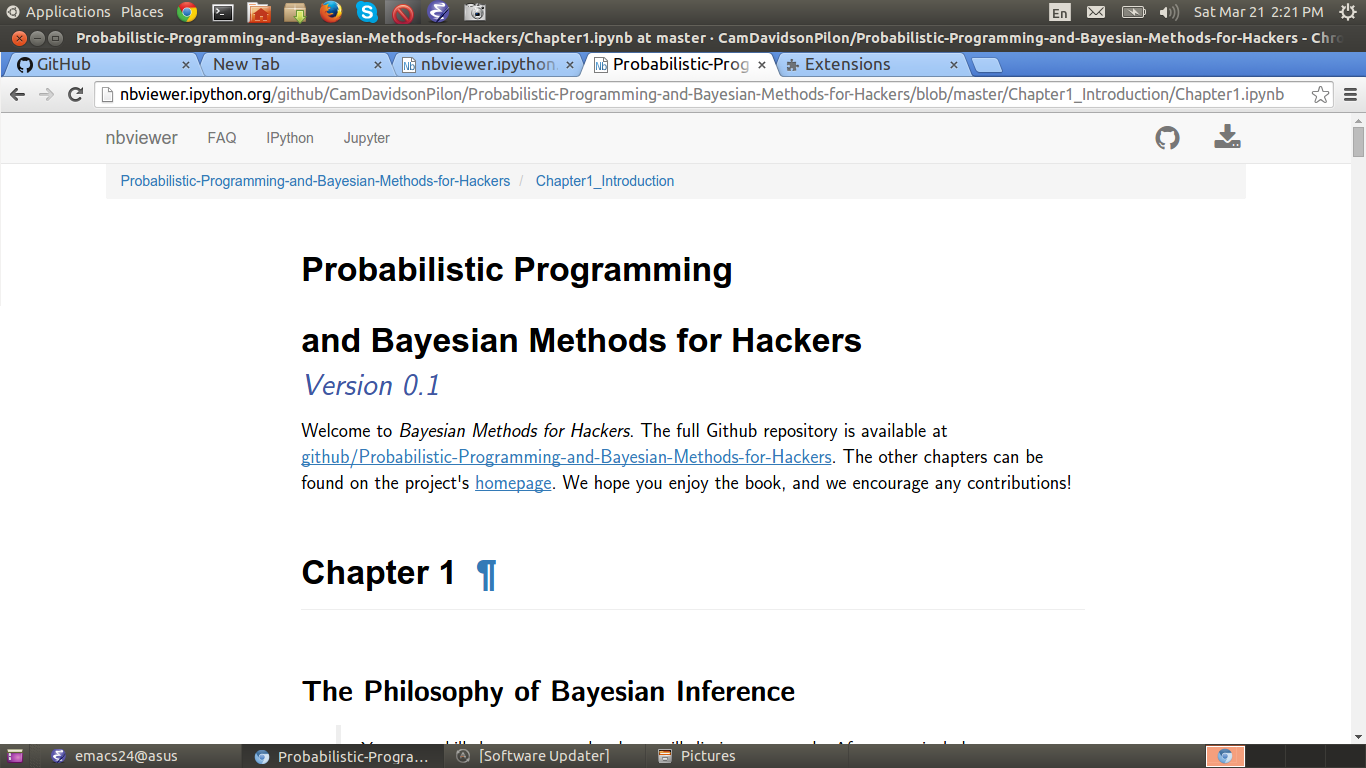
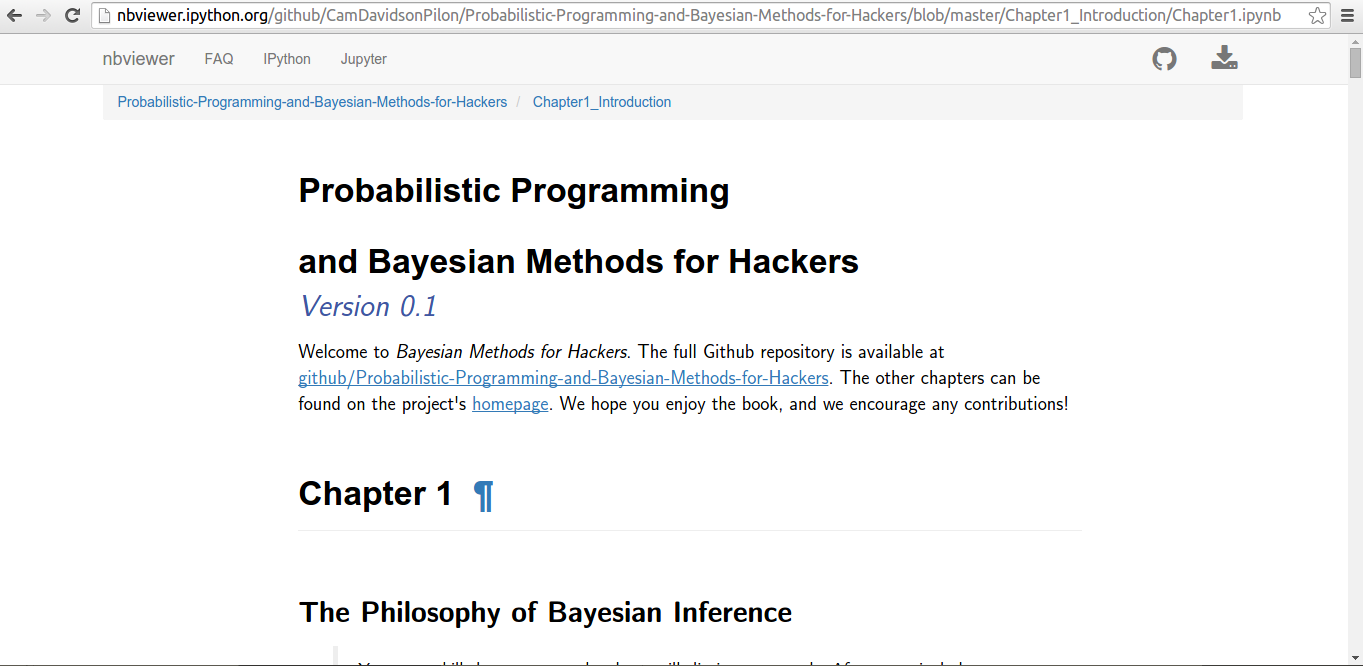
screenshots added

Changed region(s): [[0.0, 0.0, 1.0, 0.6607], [0.0, 0.8709, 1.0, 1.0], [0.2157, 0.7207, 0.3698, 0.7808]]

diff --git a/readme.md b/readme.md
@@ -7,8 +7,14 @@ than raw format what GitHub does.
 
 ## Example
 
-When you browse a project in GitHub,
+When you are browsing a project in GitHub,
 
 ![](img/main.png)
 
+instead of the raw IPython notebook file
 
+![](img/before.png)
+
+you would see this
+
+![](img/after.png)
